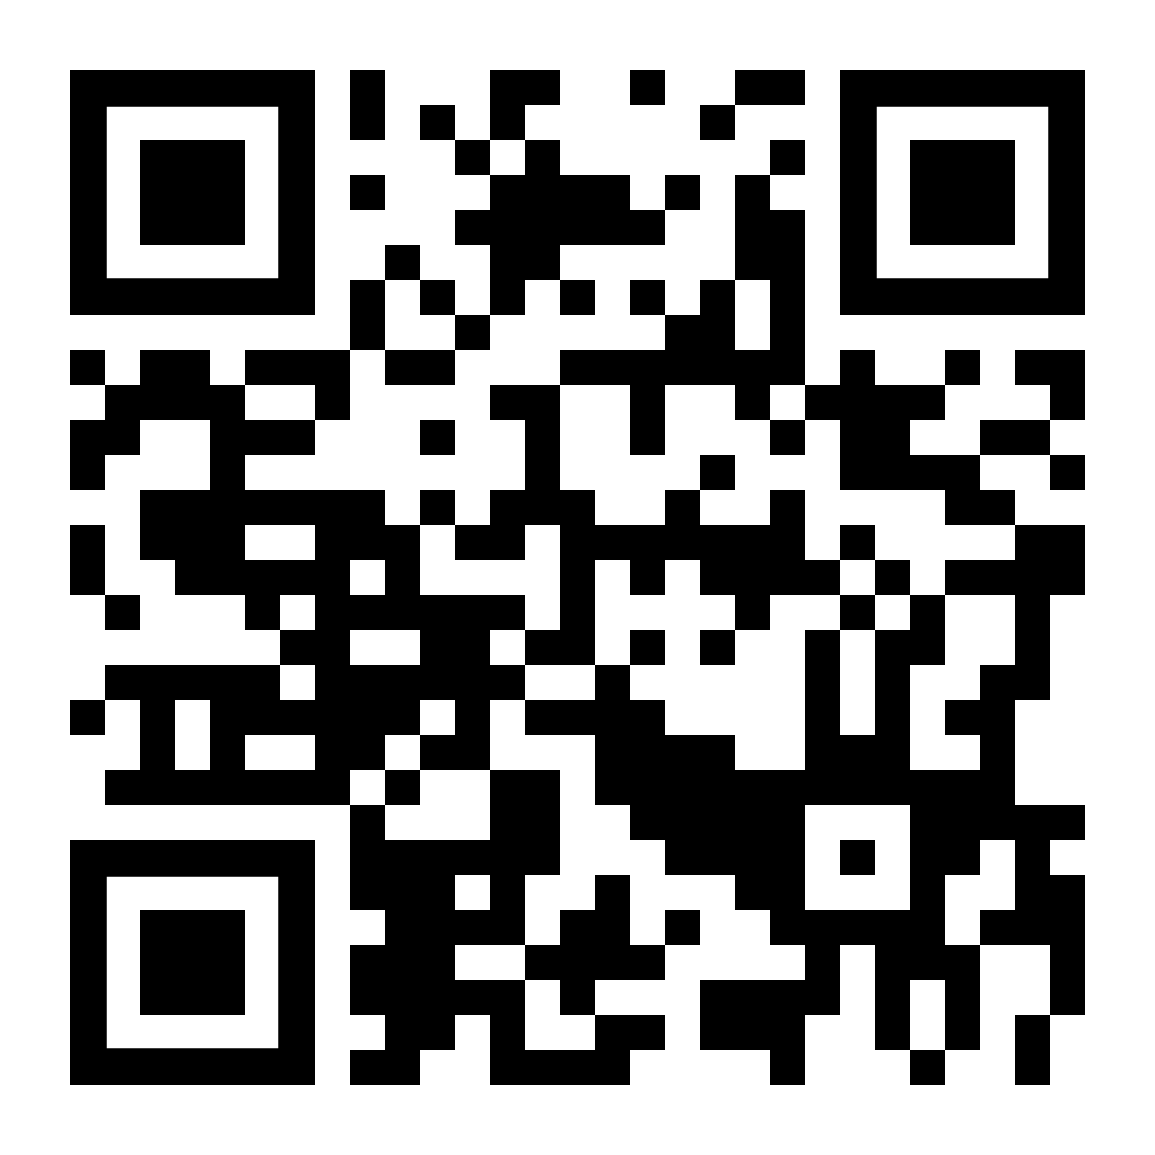
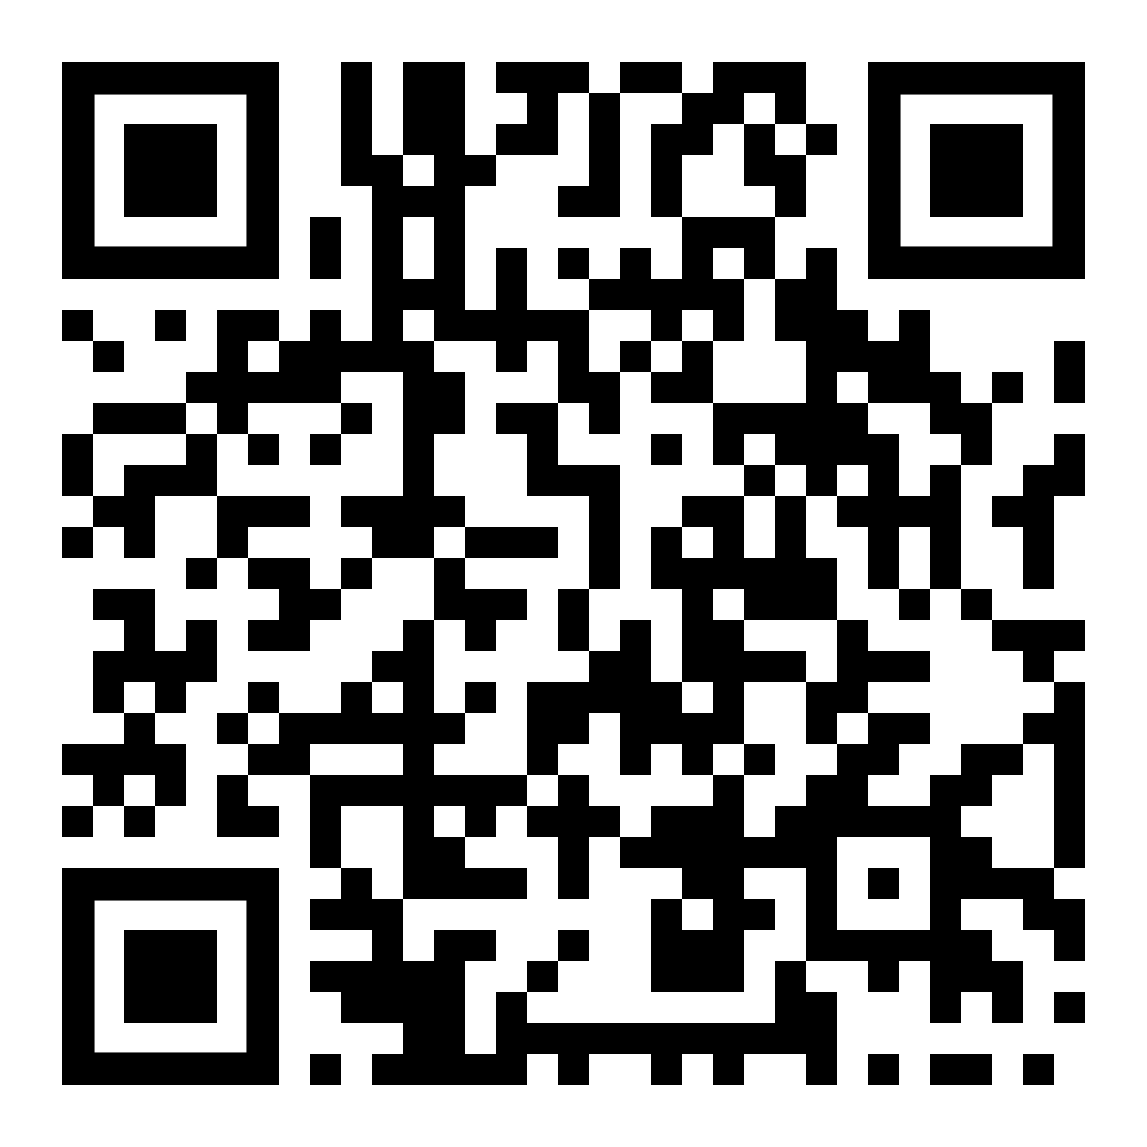
new qr codes

diff --git a/extra/qr-generator.py b/extra/qr-generator.py
@@ -1,0 +1,17 @@
+import qrcode
+
+BASE = 'https://reinbentdal.github.io/visuell-formidling'
+
+links = {
+    'qr-home': '/',
+    'qr-done': '/done',
+    'qr-square': '/square',
+    'qr-cafe': '/cafe',
+    'qr-news-the-daily-tribune': '/the-daily-tribune',
+    'qr-news-elvfjord-bulletin': '/elvfjord-bulletin',
+    'qr-news-the-national-journal': '/the-national-journal',
+}
+
+for link in links:
+    img = qrcode.make(BASE + links[link])
+    img.save(f"{link}.png")
